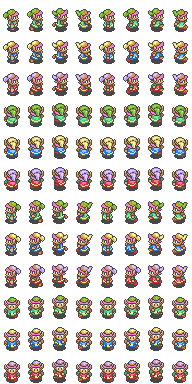
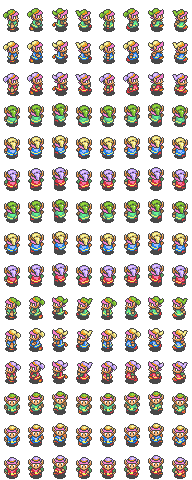
Fixing Link's sprite when facing north without shield (animation walking still needs to be fixed)
git-svn-id: svn://solarus-engine.org/solarus@342 08e91b48-8f19-0410-8fc9-9db6b7bce602

diff --git a/src/Link.cpp b/src/Link.cpp
@@ -74,9 +74,9 @@ const SoundId Link::sword_sound_ids[4] = {
  */
 Link::Link(void):
   Moving8ByPlayer(12),
-  state(LINK_STATE_FREE),
   equipment(zsdx->game->get_savegame()->get_equipment()),
   tunic_sprite(NULL), sword_sprite(NULL), shield_sprite(NULL),
+  state(LINK_STATE_FREE), walking(false),
   pushing_counter(0), next_pushing_counter_date(0) {
 
   set_size(16, 16);
@@ -257,12 +257,12 @@ void Link::update_movement(void) {
     string animation = tunic_sprite->get_current_animation();
 
     // stopped to walking
-    if (started && animation == "stopped") {
+    if (started && !walking) {
       set_animation_walking();
     }
       
     // walking to stopped
-    else if (!started && animation == "walking") {
+    else if (!started && walking) {
       set_animation_stopped();
     }
   }
@@ -478,19 +478,24 @@ void Link::restart_animation(void) {
  */
 void Link::set_animation_stopped(void) {
 
-  tunic_sprite->set_current_animation("stopped");
-
   if (is_sword_visible()) {
     sword_sprite->stop_animation();
   }
 
   if (equipment->has_shield()) {
 
+    tunic_sprite->set_current_animation("stopped_with_shield");
+
     int direction = tunic_sprite->get_current_animation_direction();
   
     shield_sprite->set_current_animation("stopped");
     shield_sprite->set_current_animation_direction(direction);
   }
+  else {
+    tunic_sprite->set_current_animation("stopped");
+  }
+
+  walking = false;
 }
 
 /**
@@ -498,19 +503,24 @@ void Link::set_animation_stopped(void) {
  */
 void Link::set_animation_walking(void) {
   
-  tunic_sprite->set_current_animation("walking");
-
   if (is_sword_visible()) {
     sword_sprite->stop_animation();
   }
 
   if (equipment->has_shield()) {
 
+    tunic_sprite->set_current_animation("walking_with_shield");
+
     int direction = tunic_sprite->get_current_animation_direction();
   
     shield_sprite->set_current_animation("walking");
     shield_sprite->set_current_animation_direction(direction);
   }
+  else {
+    tunic_sprite->set_current_animation("walking");
+  }
+
+  walking = true;
 }
 
 /**

diff --git a/include/Link.h b/include/Link.h
@@ -36,12 +36,6 @@ class Link: public Moving8ByPlayer, AnimationListener {
 
  private:
 
-  /**
-   * Current state of Link.
-   * The state is considered only when the game is not suspended.
-   */
-  LinkState state;
-
   // equipment of the player
   Equipment *equipment;
 
@@ -55,6 +49,13 @@ class Link: public Moving8ByPlayer, AnimationListener {
   static const SpriteId sword_sprite_ids[];
   static const SpriteId shield_sprite_ids[];
   static const SoundId sword_sound_ids[];
+
+  /**
+   * Current state of Link.
+   * The state is considered only when the game is not suspended.
+   */
+  LinkState state;
+  bool walking; // stopped or walking?
 
   // pushing
   int pushing_counter;

diff --git a/src/MovingWithCollision.cpp b/src/MovingWithCollision.cpp
@@ -2,7 +2,6 @@
  * This module defines the class MovingWithCollision.
  */
 
-#include <cmath>
 #include "MovingWithCollision.h"
 #include "ZSDX.h"
 #include "Map.h"
